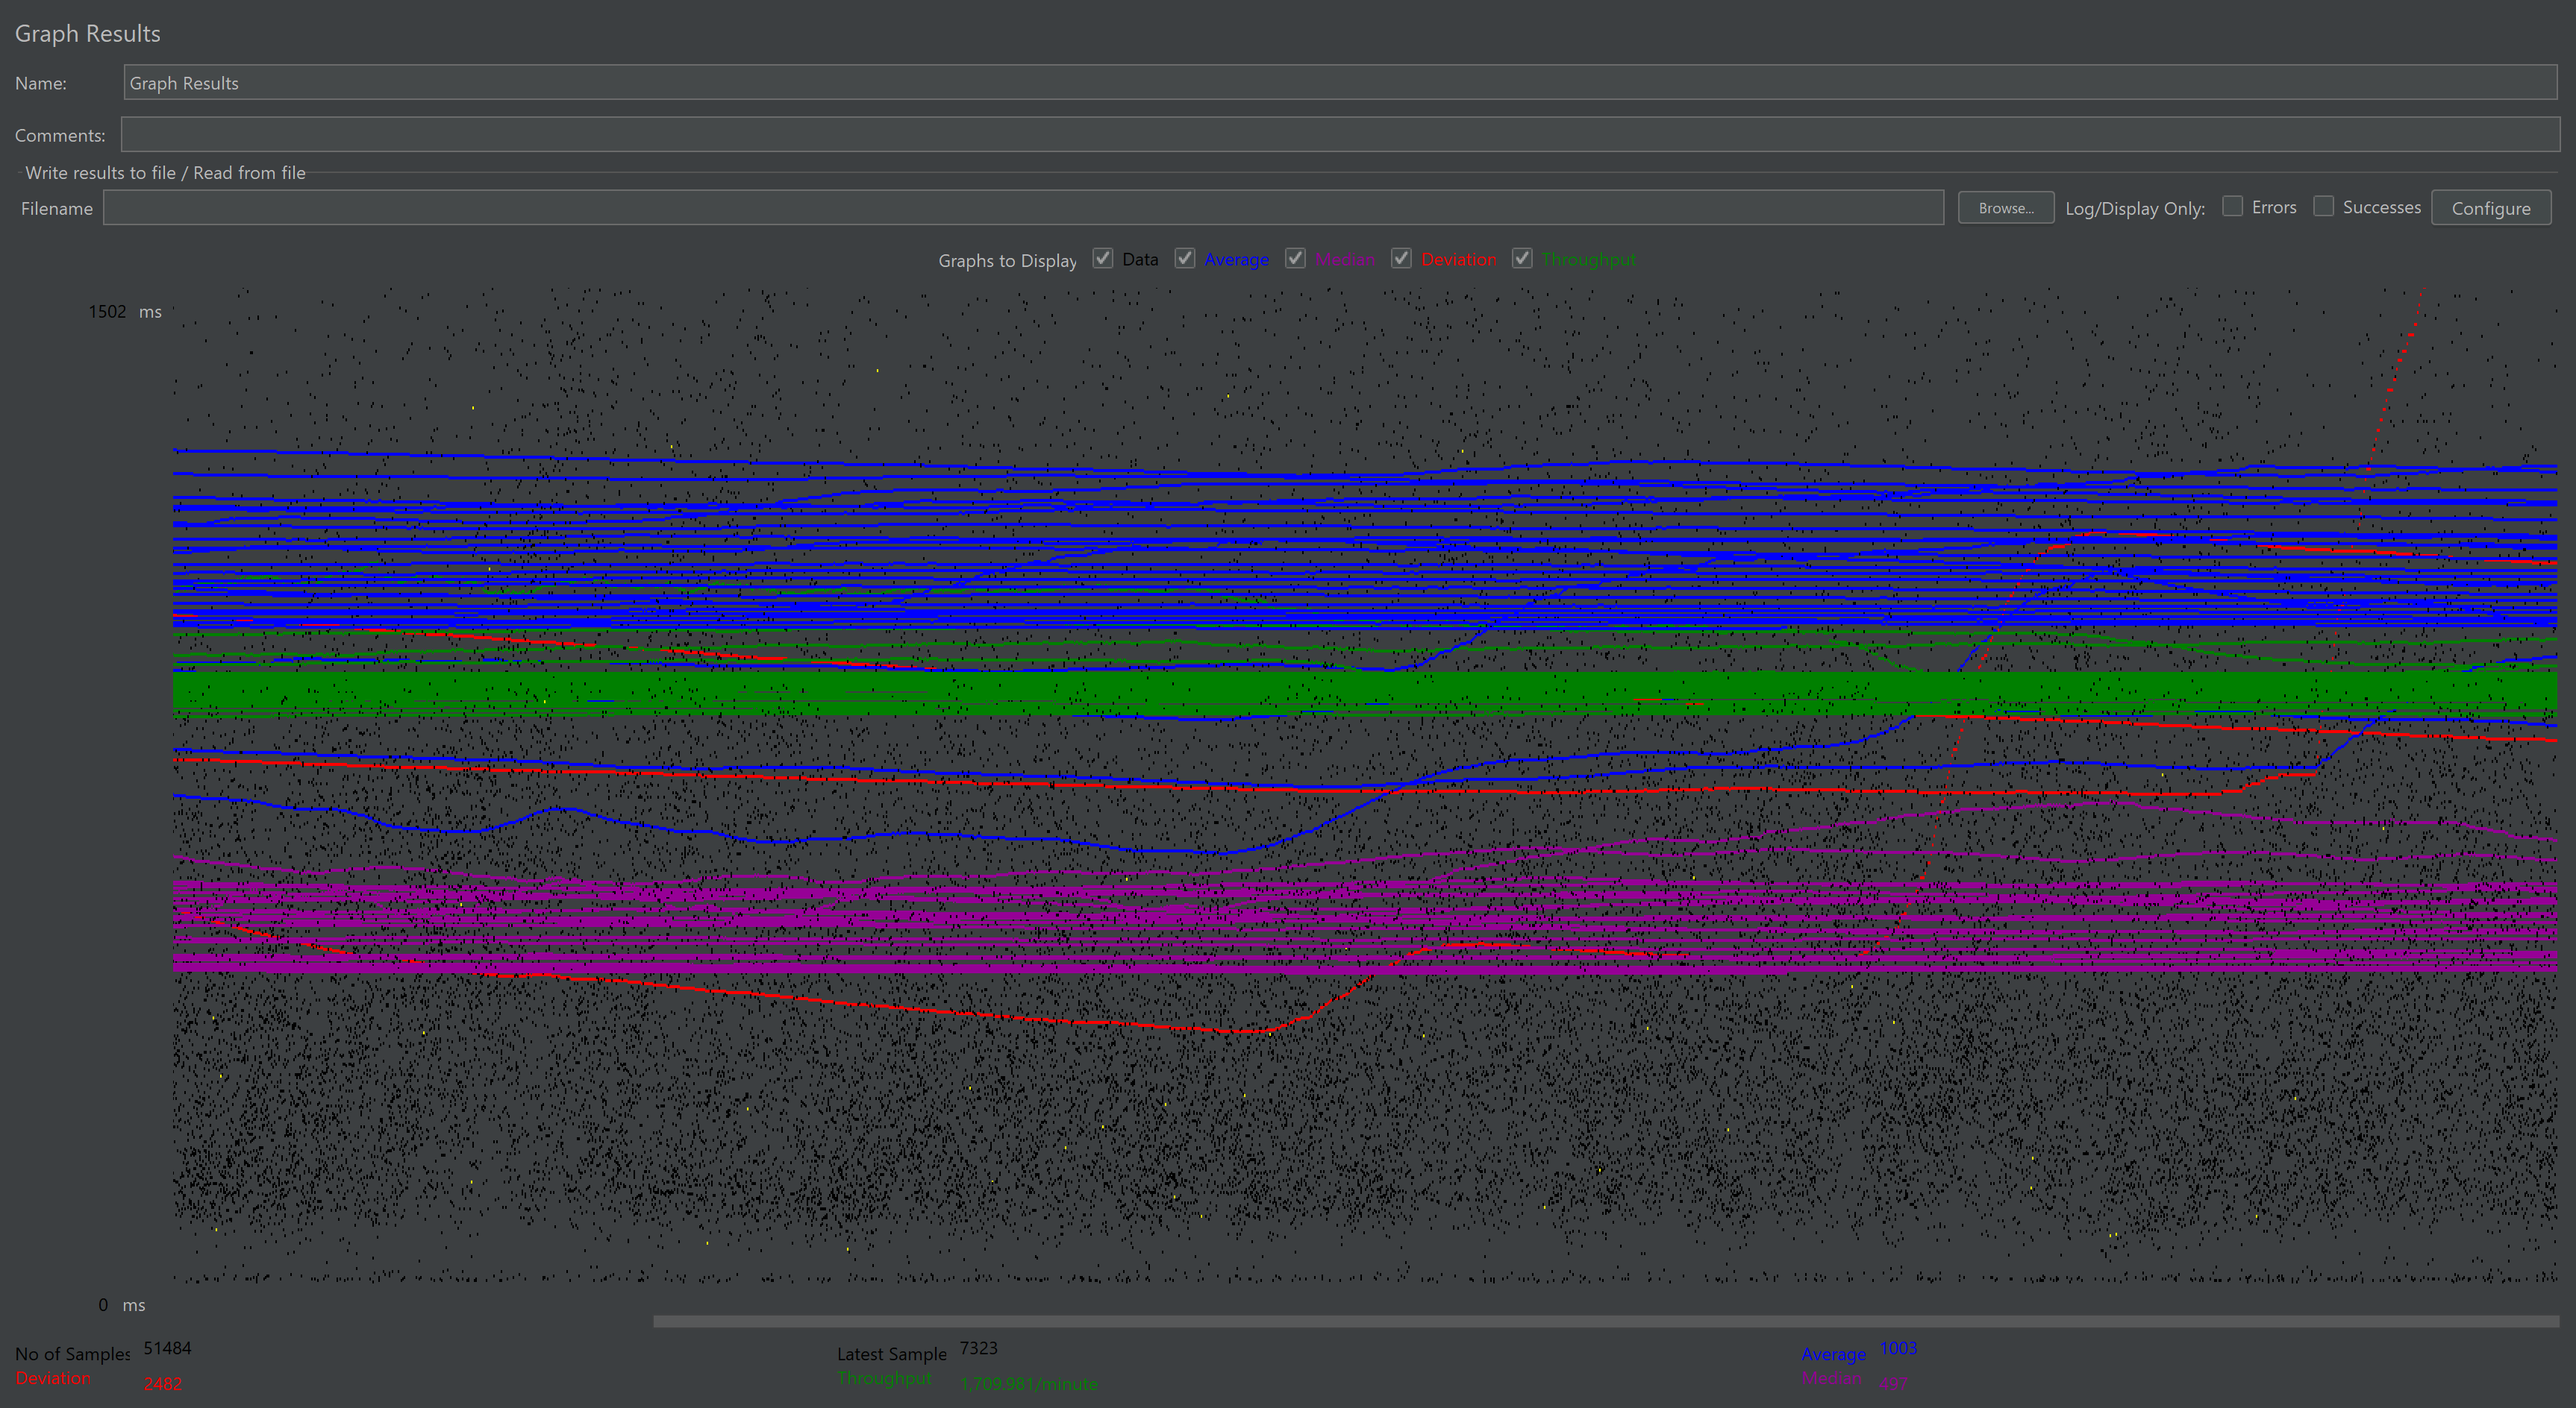
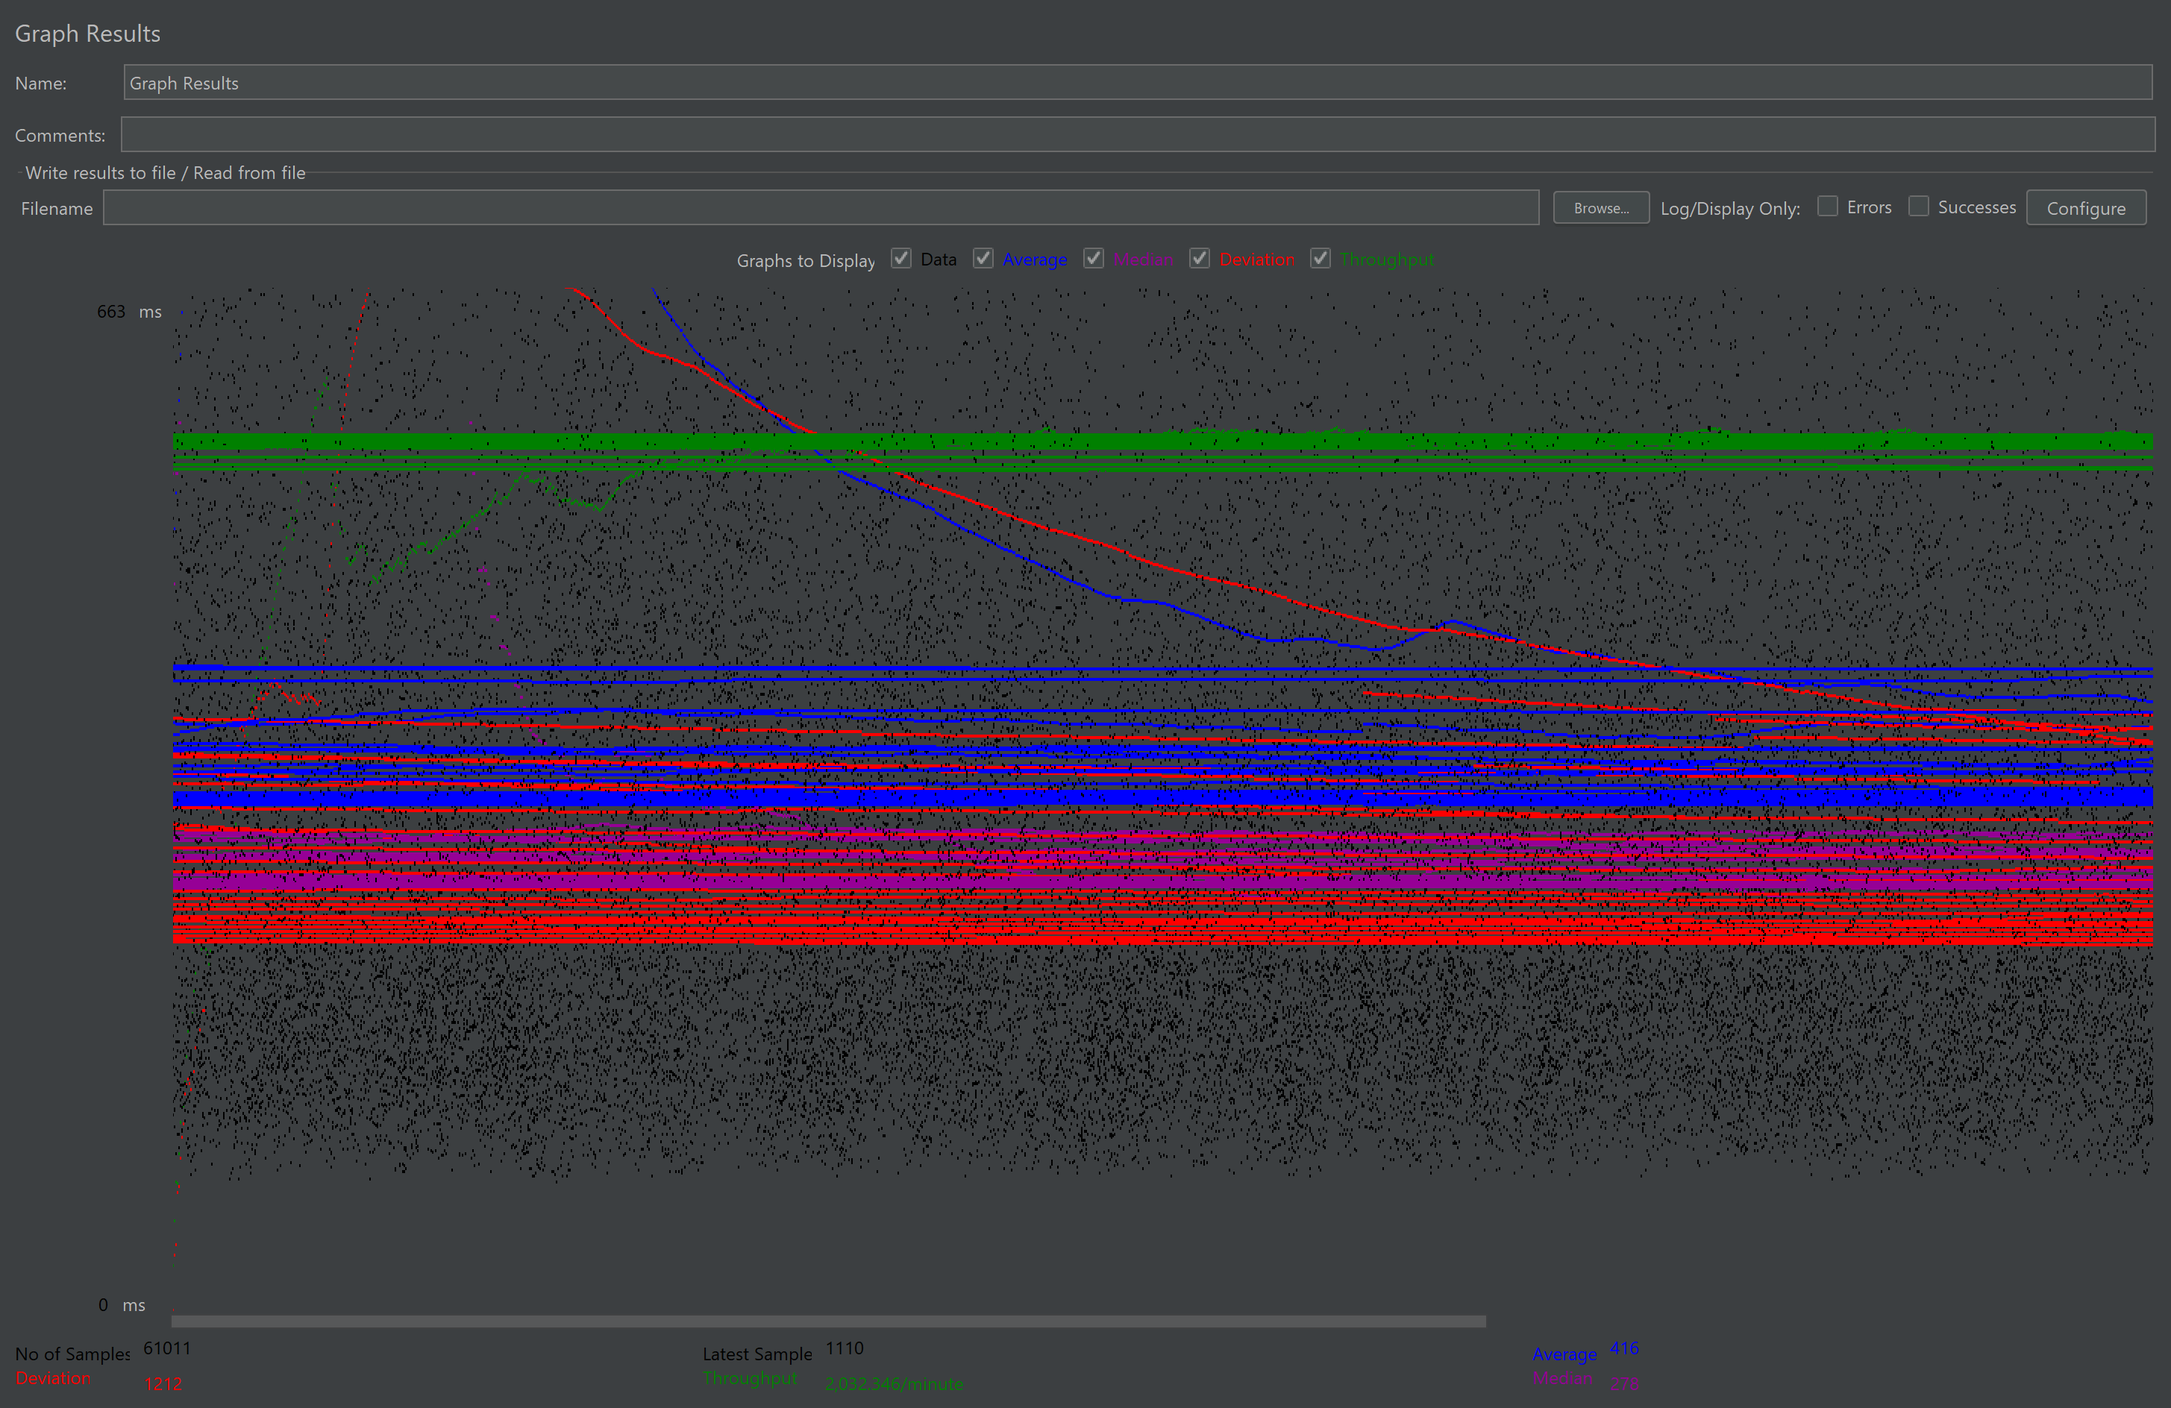
test pico done

diff --git a/00-Testing/Pruebas De Rendimiento.md b/00-Testing/Pruebas De Rendimiento.md
@@ -617,40 +617,57 @@ En las siguientes imágenes se pueden ver los resultados en gráfica y tabla. Se
 
 
 
-![Resultados de los test de carga de pico en la tabla](./img/jmeter/tabla-test-pico.JPG)
-
-
-
 Los resultados obtenidos se pueden ver en la siguiente tabla:
 
 
 
 | Label                                 | # Samples | Average | Min  | Max   | Std. Dev. | Error % | Throughput | Received KB/sec | Sent KB/sec | Avg. Bytes |
 | ------------------------------------- | --------- | ------- | ---- | ----- | --------- | ------- | ---------- | --------------- | ----------- | ---------- |
-| /api/university/quality               | 932       | 1061    | 85   | 21056 | 2736.44   | 0.751%  | .51756     | 0.81            | 0.31        | 1597.9     |
-| /api/university/financing             | 929       | 799     | 83   | 21057 | 2309.42   | 0.323%  | .51662     | 0.80            | 0.32        | 1592.3     |
-| /api/organization/search              | 1852      | 930     | 107  | 21057 | 2296.75   | 0.864%  | 1.03292    | 2.66            | 0.64        | 2637.3     |
-| /api/organization/-1/T3JnYW5pemF0aW9u | 926       | 756     | 97   | 21028 | 1884.83   | 0.324%  | .51743     | 0.21            | 0.37        | 406.1      |
-| /api/person/area                      | 1835      | 930     | 118  | 21054 | 2481.15   | 0.599%  | 1.02583    | 1.84            | 0.65        | 1837.5     |
-| /api/academicpublication/search       | 5400      | 943     | 131  | 21057 | 2312.12   | 0.370%  | 3.01335    | 9.57            | 2.13        | 3253.7     |
-| /api/project/search                   | 5260      | 882     | 133  | 21072 | 1915.71   | 0.266%  | 2.94337    | 11.36           | 1.91        | 3953.2     |
-| /api/document/search                  | 5395      | 999     | 154  | 21057 | 2429.43   | 0.556%  | 3.03127    | 8.38            | 2.06        | 2830.4     |
-| /api/patent/area                      | 2645      | 749     | 96   | 21064 | 1960.72   | 0.340%  | 1.48840    | 3.93            | 0.94        | 2703.7     |
-| /api/patent/search                    | 5254      | 862     | 117  | 21050 | 1940.21   | 0.419%  | 2.96051    | 6.25            | 1.93        | 2161.5     |
-| /api/researchstaff/search             | 2656      | 1392    | 276  | 21057 | 2511.71   | 0.602%  | 1.50866    | 4.56            | 0.98        | 3092.9     |
-| /main/categories/scientist/1          | 906       | 563     | 42   | 21053 | 2803.16   | 0.993%  | .52101     | 0.64            | 0.34        | 1251.6     |
-| /api/otherpublication/search          | 3568      | 934     | 131  | 21052 | 2463.34   | 0.673%  | 2.04898    | 4.92            | 1.31        | 2459.0     |
-| /api/event/search                     | 3554      | 972     | 154  | 21058 | 2501.65   | 0.760%  | 2.04592    | 5.46            | 1.26        | 2734.3     |
-| /api/booksection/search/              | 2673      | 932     | 108  | 21066 | 2510.72   | 0.599%  | 1.55593    | 1.18            | 1.09        | 778.8      |
-| /api/document/M-21543-97/Qm9vaw==     | 892       | 979     | 134  | 21048 | 2752.89   | 0.785%  | .52015     | 0.37            | 0.36        | 725.3      |
-| /api/event/48/Q29uZmVyZW5jZQ==        | 874       | 702     | 113  | 21030 | 1656.16   | 0.114%  | .52020     | 0.39            | 0.35        | 760.5      |
-| /api/project/byModality               | 1724      | 743     | 100  | 21054 | 1944.25   | 0.580%  | 1.02695    | 1.59            | 0.62        | 1589.7     |
-| /api/patent/1                         | 859       | 652     | 101  | 21043 | 1534.80   | 0.349%  | .51687     | 0.34            | 0.30        | 678.8      |
-| /api/project/1                        | 842       | 949     | 123  | 21048 | 2161.05   | 0.356%  | .51383     | 0.36            | 0.32        | 718.8      |
-| /api/person/search                    | 840       | 1279    | 343  | 21059 | 2151.42   | 0.595%  | .51333     | 1.61            | 0.32        | 3202.2     |
-| token                                 | 836       | 4618    | 277  | 21068 | 6782.50   | 8.014%  | .51094     | 1.92            | 0.17        | 3841.1     |
-| sparql                                | 832       | 1930    | 91   | 21046 | 3345.59   | 8.534%  | .51236     | 0.37            | 1.21        | 744.4      |
-| TOTAL                                 | 51484     | 1003    | 42   | 21072 | 2482.43   | 0.765%  | 28.49969   | 67.80           | 19.28       | 2436.2     |
+| /api/university/organizationByType    | 1092      | 476     | 84   | 19276 | 1486.73   | 0.458%  | .60818     | 0.58            | 0.38        | 974.3      |
+| /api/organization/search              | 1092      | 343     | 96   | 19255 | 1011.84   | 0.275%  | .60821     | 1.57            | 0.38        | 2636.0     |
+| /api/organization/-1/T3JnYW5pemF0aW9u | 1091      | 379     | 87   | 19274 | 1445.71   | 0.367%  | .61140     | 0.56            | 0.43        | 940.5      |
+| /api/person/area                      | 2176      | 313     | 84   | 19256 | 1015.01   | 0.092%  | 1.21465    | 0.47            | 0.78        | 400.4      |
+| /api/academicpublication/search       | 7491      | 434     | 119  | 21049 | 1240.40   | 0.133%  | 4.17929    | 12.32           | 2.98        | 3017.5     |
+| /api/project/search                   | 6184      | 404     | 116  | 21028 | 1286.53   | 0.323%  | 3.45685    | 10.81           | 2.24        | 3201.3     |
+| /api/document/search                  | 7491      | 463     | 140  | 21050 | 1154.02   | 0.107%  | 4.18881    | 9.86            | 2.87        | 2410.4     |
+| /api/patent/area                      | 3099      | 340     | 86   | 19265 | 1195.88   | 0.258%  | 1.73665    | 5.75            | 1.10        | 3392.0     |
+| /api/patent/search                    | 7260      | 384     | 100  | 31434 | 1245.75   | 0.275%  | 4.07718    | 6.03            | 2.69        | 1514.4     |
+| /api/researchstaff/search             | 3166      | 478     | 164  | 21048 | 1308.79   | 0.221%  | 1.78850    | 3.20            | 1.17        | 1829.5     |
+| /api/person/3519                      | 1086      | 483     | 204  | 16083 | 855.23    | 0.000%  | .61881     | 0.41            | 0.41        | 683.0      |
+| /api/event/search                     | 5297      | 488     | 145  | 21050 | 1226.48   | 0.132%  | 3.00584    | 7.60            | 1.91        | 2589.0     |
+| /api/otherpublication/search          | 4231      | 408     | 122  | 21051 | 1024.77   | 0.047%  | 2.42000    | 5.80            | 1.56        | 2456.2     |
+| /api/booksection/search/              | 3174      | 371     | 95   | 15680 | 981.37    | 0.000%  | 1.83737    | 1.37            | 1.29        | 766.0      |
+| /api/document/M-21543-97/Qm9vaw==     | 1062      | 382     | 124  | 15496 | 941.66    | 0.000%  | .61609     | 0.43            | 0.43        | 708.0      |
+| /api/event/48/Q29uZmVyZW5jZQ==        | 1020      | 384     | 100  | 19227 | 1249.27   | 0.098%  | .60205     | 0.45            | 0.41        | 760.2      |
+| /api/project/byModality               | 2013      | 390     | 89   | 19274 | 1474.11   | 0.397%  | 1.18991    | 2.80            | 0.72        | 2405.3     |
+| /api/patent/1                         | 1000      | 384     | 91   | 19272 | 1399.61   | 0.200%  | .60046     | 0.40            | 0.35        | 675.6      |
+| /api/project/1                        | 994       | 353     | 98   | 19265 | 1211.95   | 0.302%  | .60061     | 0.24            | 0.38        | 405.8      |
+| /api/person/search                    | 992       | 503     | 191  | 19250 | 1425.94   | 0.403%  | .60318     | 1.08            | 0.38        | 1825.7     |
+| TOTAL                                 | 61011     | 416     | 84   | 31434 | 1212.30   | 0.187%  | 33.87244   | 70.56           | 22.41       | 2133.0     |
+
+
+
+Teniendo en cuenta que los test se han lanzado entre las 14:45 del 10/05/2021 y las 15:15 del 10/05/2021, se puede ver que hay picos durante esos minutos tanto en uso de memoria, CPU y disco como en el número de procesos, pero sin que afecte de forma alarmante en la latencia o el porcentaje de error de la respuesta de los servicios. El resultado de la monitorización del sistema durante los test de carga se puede ver en las siguientes imágenes:
+
+![Resultado general de la monitorización de test de pico](./img/jmeter/general-state-test-pico.png)
+
+
+
+![Resultado de la monitorización de la ocupación de memoria de test de pico](./img/jmeter/memory-state-test-pico.png)
+
+
+
+![Resultado de la monitorización de el uso de CPU de test de pico](./img/jmeter/cpu-state-test-pico.png)
+
+
+
+![Resultado de la monitorización de el estado del disco de test de pico](./img/jmeter/disk-state-test-pico.png)
+
+
+
+![Resultado de la monitorización de los procesos de test de pico](./img/jmeter/processes-state-test-pico.png)
+
+
 
 
 
